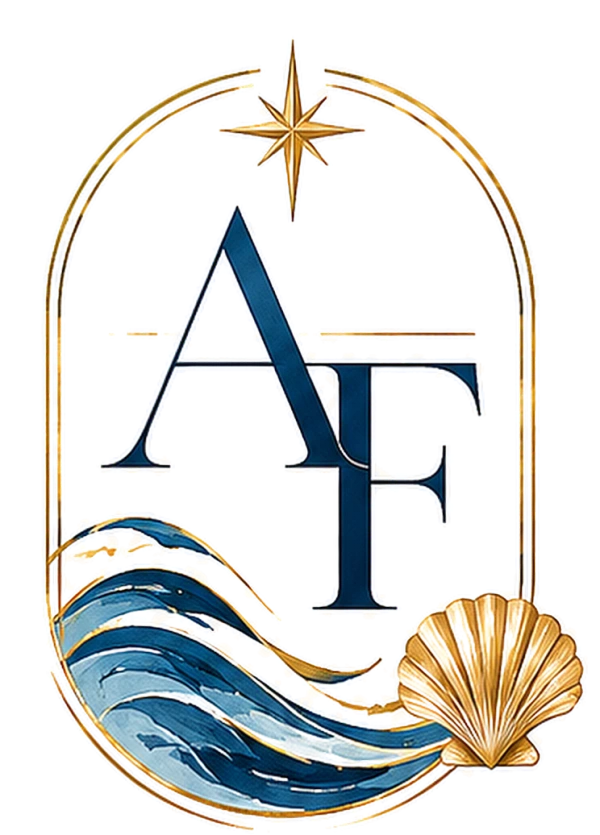
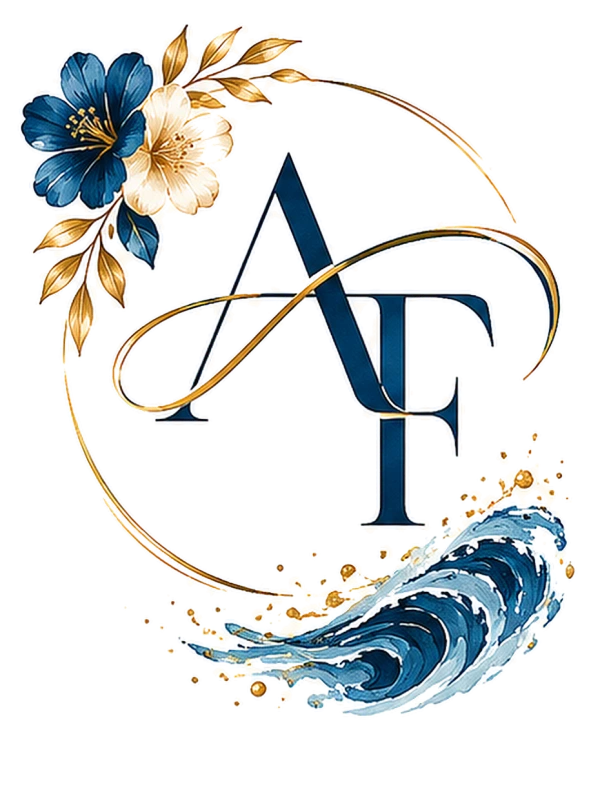
Switch to the ring monogram with flowers, gold swash and wave
Bottom-middle option from the couple's reference, cut out with the background
removed (ivory flower kept opaque), on the site and the printed invite.

Claude-Session: https://claude.ai/code/session_01LxmuxENuK4AtkHJCxgoTP3

diff --git a/site/styles.css b/site/styles.css
@@ -99,9 +99,9 @@ strong { font-weight: 500; }
   text-align: center;
 }
 .hero__inner { padding: 48px 16px 64px; max-width: 760px; margin: 0 auto; }
-.hero__mono { width: 190px; margin: 0 auto 18px; }
+.hero__mono { width: 230px; margin: 0 auto 14px; }
 .monogram { display: block; width: 100%; height: auto; overflow: visible; }
-@media (min-width: 720px) { .hero__mono { width: 200px; } }
+@media (min-width: 720px) { .hero__mono { width: 270px; } }
 .hero__greeting {
   font-family: var(--serif); font-style: italic; font-size: 1.5rem; color: var(--blue);
   margin-bottom: 1.25rem;

diff --git a/site/shared.js b/site/shared.js
@@ -142,4 +142,4 @@ export const DIVIDER = `
 </svg>`;
 
 // Monogram from the couple's chosen reference (arched gold frame, A F, star, waves, shell).
-export const MONOGRAM = `<img class="monogram" src="assets/monogram.webp" width="600" height="835" alt="Monograma A F com moldura dourada em arco, estrela, ondas e concha">`;
+export const MONOGRAM = `<img class="monogram" src="assets/monogram.webp" width="600" height="794" alt="Monograma A F com aro dourado, flores azul e marfim, laço dourado e onda">`;

diff --git a/site/invite.css b/site/invite.css
@@ -114,7 +114,7 @@ p { margin: 0; }
   .sheet:last-child { break-after: auto; page-break-after: auto; }
 }
 
-.mono { width: 26mm; margin-bottom: 3mm; }
+.mono { width: 32mm; margin-bottom: 2mm; }
 .monogram { display: block; width: 100%; height: auto; overflow: visible; }
 .sheet--front .names { margin-top: 4mm; font-size: 32pt; }
 .sheet--front .events { margin-top: 5mm; }

diff --git a/README.md b/README.md
@@ -16,8 +16,8 @@ with the same information for guests who prefer paper.
 ## Design
 
 Navy and gold: palette #0C3362 · #6EA6CD · #C3D3E0 · #DCAD79 · #F4E7D6, navy/gold alcohol-ink
-marble bands, a pale blue silk background with gold sparkles, and an arched A F monogram with
-waves and a scallop shell (`site/assets/monogram.webp`, cut from the couple's reference).
+marble bands, a pale blue silk background with gold sparkles, and an A F monogram in a gold ring with
+flowers, a gold swash and a wave (`site/assets/monogram.webp`, cut from the couple's reference).
 
 ## How it works
 
